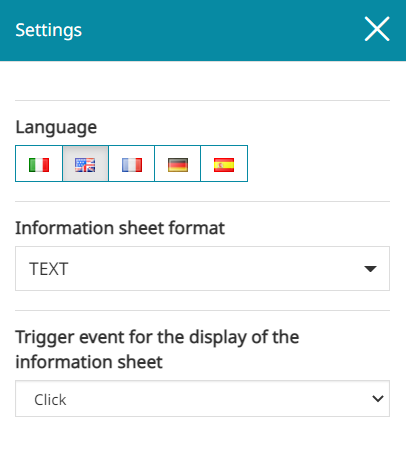
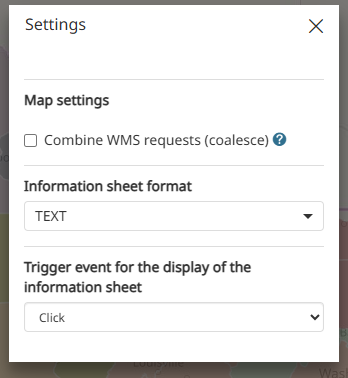
User Guide - Coalesce adjacent WMS layers option #12991 (#13023)
* Commit for 12991-userguide

* Apply suggestion from @ElenaGallo

* Update docs/user-guide/layer-settings.md

* review_12991

---------

diff --git a/docs/user-guide/layer-settings.md b/docs/user-guide/layer-settings.md
@@ -61,7 +61,7 @@ Setting a tooltip that shows the Title and the Description on the Right, for exa
 
 Through the second section of the layer settings panel it is possible to change the display settings:
 
-<img src="../img/layer-settings/display.jpg" class="ms-docimage"  style="max-width:450px;"/>
+<img src="../img/layer-settings/coalesceLayer.jpg" class="ms-docimage"  style="max-width:450px;"/>
 
 In particular, the user is allowed to:
 
@@ -91,6 +91,8 @@ In particular, the user is allowed to:
 
 * Enable/disable the use of the layer cached tiles. If checked, the *Tiled=true* URL parameter will be added to the WMS request to [use tiles cached with GeoWebCache](https://docs.geoserver.org/latest/en/user/geowebcache/using.html#direct-integration-with-geoserver-wms).
 When the *Use cache options* is enabled, more controls are enabled so that it is possible for the user to check if the current map settings match any GWC ***standard*** Gridset defined on the server side for the given WMS layer (**Check available tile grids information** <img src="../img/button/update_button.jpg" class="ms-docbutton"/>). At the same time, it is also possible to change the setting strategy (based on the WMTS service response) to strictly adapt layer settings on the client side to the ones matching any remote ***custom*** Gridset defined for the current map settings (**Use remote custom tile grids** <img src="../img/button/tile_grid.jpg" class="ms-docbutton"/> button).
+
+* Enable/disable the **Exclude from combined requests option**. If checked, the layer is always loaded with its own separate request, even when the [Combine WMS requests (coalesce)](mapstore-toolbars.md#side-toolbar) option is enabled in the map Settings, where adjacent WMS layers from the same service are combined into a single request.
 
 !!!note
 

diff --git a/docs/user-guide/mapstore-toolbars.md b/docs/user-guide/mapstore-toolbars.md
@@ -179,9 +179,9 @@ In particular, with these options it is possible to:
 
 * Perform a [Measure](measure.md) on the map by clicking the <img src="../img/button/measurament.jpg" class="ms-docbutton"/> button
 
-* Access the map **Settings** by clicking the <img src="../img/button/settings2.jpg" class="ms-docbutton"/> button, where the user can change the current **Language** and select the [Identify](navigation-toolbar.md#identify-tool) options
+* Access the map **Settings**, by clicking the <img src="../img/button/settings2.jpg" class="ms-docbutton"/> button, to configure the general map options. **Combine WMS requests (coalesce)** loads adjacent WMS layers from the same service with a single request instead of one per layer, which speeds up map loading; **Information sheet format** sets the general default format of the [Identify](identify.md) results (*TEXT*, *HTML* or *PROPERTIES*), and **Trigger event for the display of the information sheet** sets whether Identify runs on mouse *Click* or *Hover*.
 
-<img src="../img/menu-bar/settings-panel.jpg" class="ms-docimage" style="max-width:400px;"/>
+<img src="../img/menu-bar/settings-panel.jpg" class="ms-docimage" style="max-width:600px;"/>
 
 !!!Note
     When the [3D navigation](navigation-toolbar.md#3d-navigation) is enabled, opening the **Settings** panel, the editor is allowed to configure some options related to the *Cesium viewer*.
